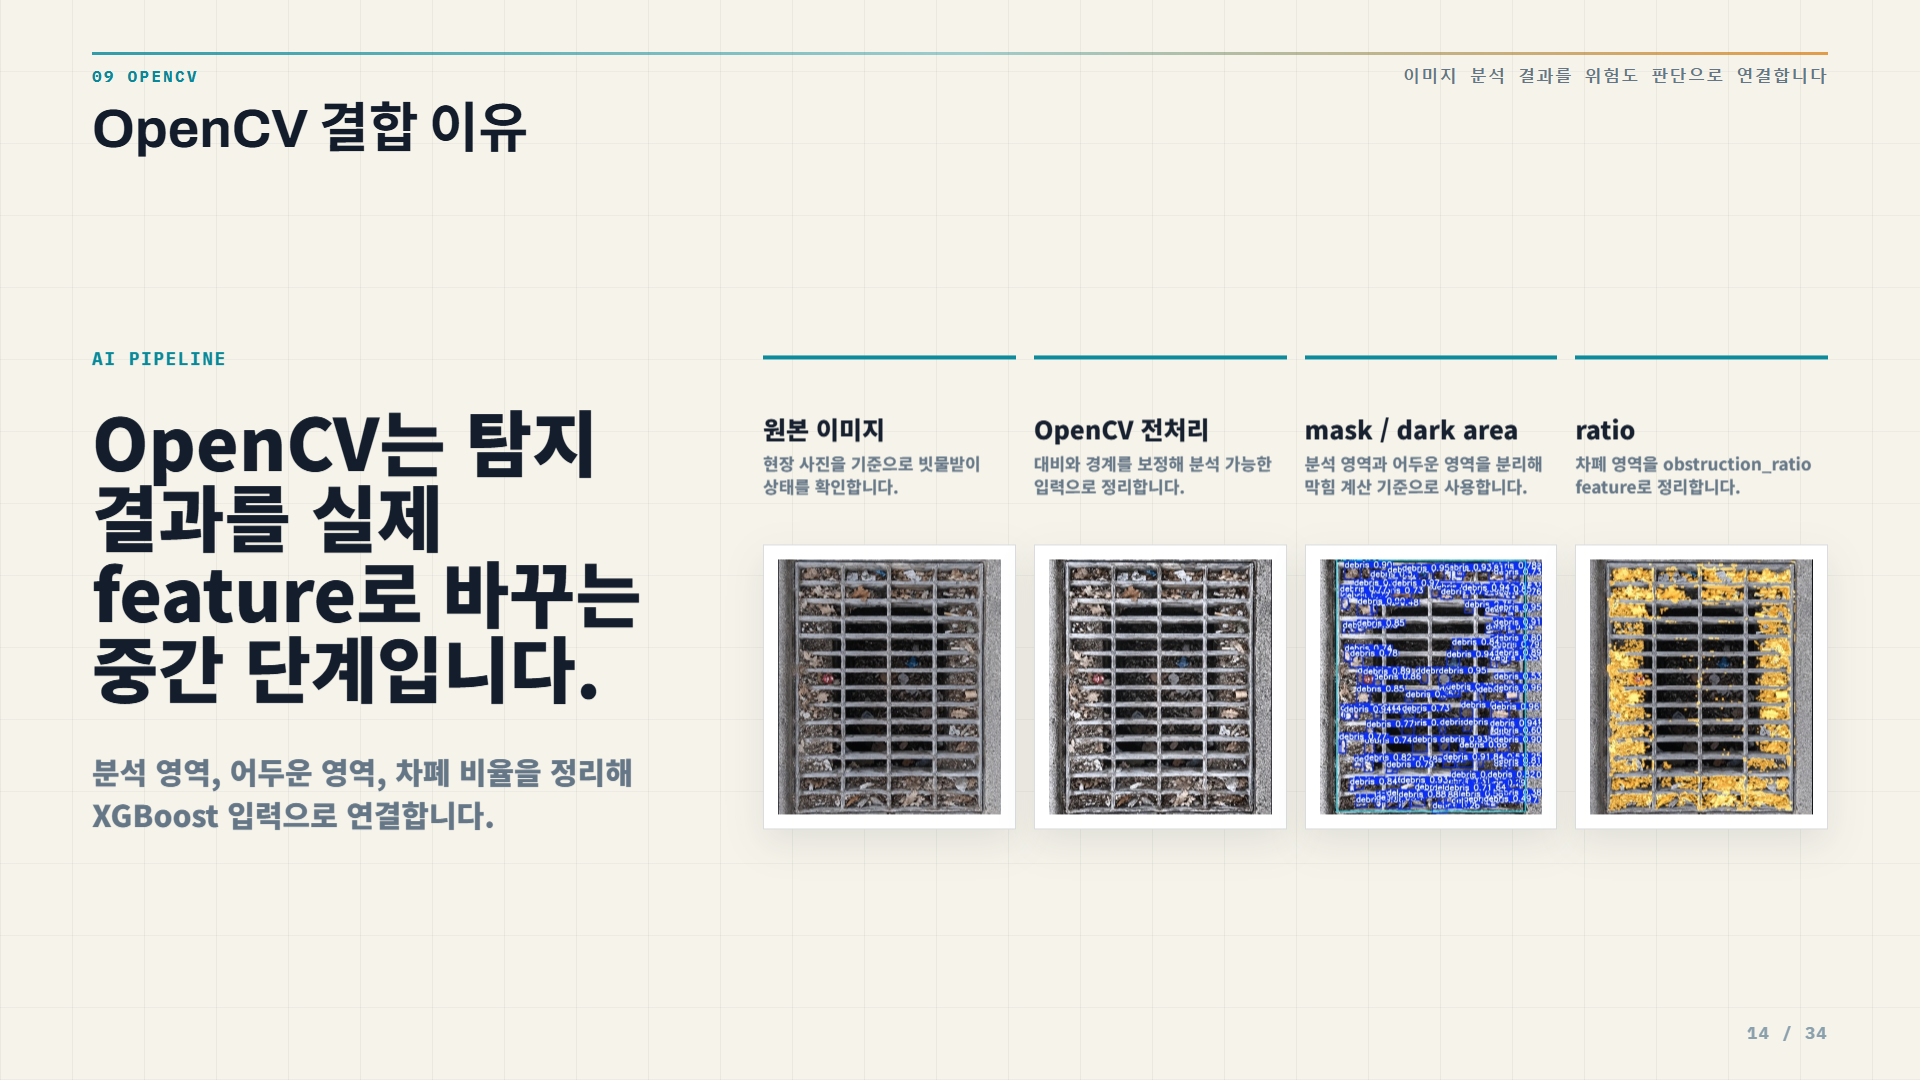
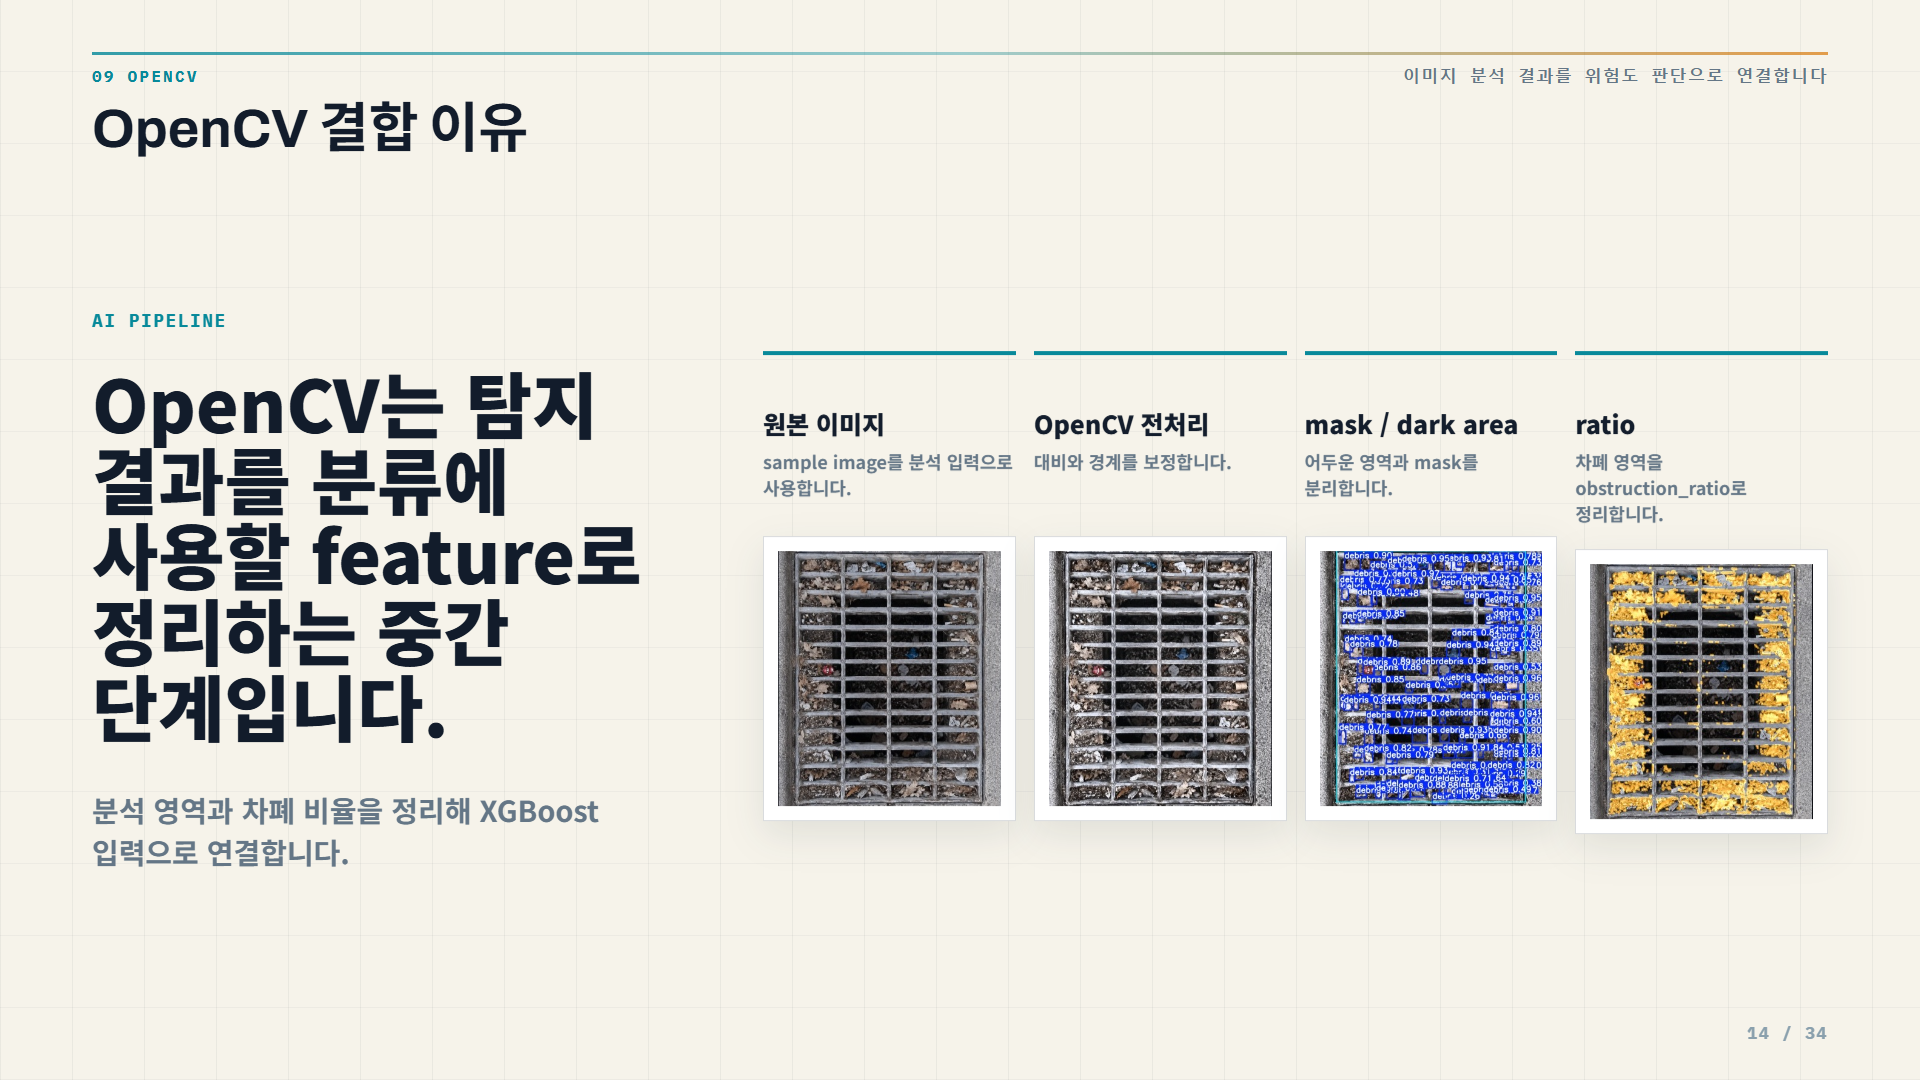
Improve AI section readability

Changed region(s): [[0.375, 0.3667, 0.9375, 0.7944], [0.0312, 0.275, 0.3438, 0.825], [0.4062, 0.3056, 0.9688, 0.3361]]

diff --git a/output/presentation.html b/output/presentation.html
@@ -1586,6 +1586,43 @@
       font-weight: 700;
       word-break: keep-all;
     }
+    .ai-tuned .ref-sub,
+    .ai-tuned li,
+    .ai-tuned .cell,
+    .ai-tuned .pipeline-copy p,
+    .ai-tuned .pipeline-step p,
+    .ai-tuned .stage-card span,
+    .ai-tuned .simple-step span {
+      font-weight: 600;
+    }
+    .ai-tuned .caption,
+    .ai-tuned .asset-caption {
+      font-size: 18px;
+      line-height: 1.45;
+      font-weight: 650;
+    }
+    .ai-tuned .pipeline-copy p {
+      font-size: 29px;
+      line-height: 1.45;
+    }
+    .ai-tuned .pipeline-step p {
+      font-size: 18px;
+      line-height: 1.46;
+      min-height: 66px;
+    }
+    .ai-tuned .stage-card {
+      min-height: 180px;
+      padding: 24px;
+    }
+    .ai-tuned .stage-card span,
+    .ai-tuned .simple-step span {
+      font-size: 20px;
+      line-height: 1.46;
+    }
+    .ai-tuned .row.four .cell {
+      padding: 18px 22px;
+      line-height: 1.38;
+    }
     .status-chip {
       display: inline-block;
       min-width: 86px;
@@ -2119,11 +2156,11 @@
         <p class="caption reveal" style="margin-top:32px">YOLO는 후보 영역을 찾고, OpenCV는 막힘 비율을 수치화하며, XGBoost는 이미지·센서 feature를 결합해 상태를 분류합니다.</p>
       </section>
 
-      <section class="slide" data-page="13 / 34">
+      <section class="slide ai-tuned" data-page="13 / 34">
         <div class="topline"><div><div class="kicker">08 AI 한계</div><h2>YOLO 단독 분석 한계</h2></div><div class="section-label">후처리 필요</div></div>
         <div class="hero-split">
           <div class="hero-copy reveal">
-            <p class="ref-claim">객체 탐지만으로는 배수 상태를 안정적으로 판단하기 어렵습니다.</p>
+            <p class="ref-claim">객체 탐지만으로는 배수 위험도를 안정적으로 판단하기 어렵습니다.</p>
             <p class="ref-sub">탐지 결과를 그대로 위험도로 쓰지 않고, OpenCV 후처리와 센서 feature를 결합해 상태 분류로 연결합니다.</p>
             <ul>
               <li>YOLO는 보이는 객체와 후보 영역 탐지에 강점이 있습니다.</li>
@@ -2134,94 +2171,94 @@
           <div class="hero-visual reveal">
             <div class="asset-frame hero">
               <img src="assets/yolo-opencv-error-graph.png" alt="YOLO 단독 해석 한계와 후처리 필요성 예시">
-              <div class="asset-caption">과정 예시: 원본 이미지 → 탐지/전처리 → mask/dark area → obstruction_ratio feature</div>
+              <div class="asset-caption">개념 예시: 객체 탐지만으로 상태 분류가 흔들릴 수 있어 OpenCV·센서 feature를 함께 사용합니다.</div>
             </div>
           </div>
         </div>
       </section>
 
-      <section class="slide" data-page="14 / 34">
+      <section class="slide ai-tuned" data-page="14 / 34">
         <div class="topline"><div><div class="kicker">09 OpenCV</div><h2>OpenCV 결합 이유</h2></div><div class="section-label">이미지 분석 결과를 위험도 판단으로 연결합니다</div></div>
         <div class="pipeline-layout">
           <div class="pipeline-copy reveal">
             <div class="eyebrow">AI Pipeline</div>
-            <h3>OpenCV는 탐지 결과를 실제 feature로 바꾸는 중간 단계입니다.</h3>
-            <p>분석 영역, 어두운 영역, 차폐 비율을 정리해 XGBoost 입력으로 연결합니다.</p>
+            <h3>OpenCV는 탐지 결과를 분류에 사용할 feature로 정리하는 중간 단계입니다.</h3>
+            <p>분석 영역과 차폐 비율을 정리해 XGBoost 입력으로 연결합니다.</p>
           </div>
           <div class="pipeline-steps reveal">
             <div class="pipeline-step">
               <h4>원본 이미지</h4>
-              <p>현장 사진을 기준으로 빗물받이 상태를 확인합니다.</p>
+              <p>sample image를 분석 입력으로 사용합니다.</p>
               <div class="pipeline-shot raw"><img src="assets/pipeline-drain-raw.jpg" alt="원본 이미지"></div>
             </div>
             <div class="pipeline-step">
               <h4>OpenCV 전처리</h4>
-              <p>대비와 경계를 보정해 분석 가능한 입력으로 정리합니다.</p>
+              <p>대비와 경계를 보정합니다.</p>
               <div class="pipeline-shot prep"><img src="assets/pipeline-drain-prep.jpg" alt="OpenCV 전처리"></div>
             </div>
             <div class="pipeline-step">
               <h4>mask / dark area</h4>
-              <p>분석 영역과 어두운 영역을 분리해 막힘 계산 기준으로 사용합니다.</p>
+              <p>어두운 영역과 mask를 분리합니다.</p>
               <div class="pipeline-shot yolo"><img src="assets/pipeline-drain-yolo.jpg" alt="mask와 dark area"></div>
             </div>
             <div class="pipeline-step">
               <h4>ratio</h4>
-              <p>차폐 영역을 obstruction_ratio feature로 정리합니다.</p>
+              <p>차폐 영역을 obstruction_ratio로 정리합니다.</p>
               <div class="pipeline-shot ratio"><img src="assets/pipeline-drain-ratio.jpg" alt="obstruction ratio"></div>
             </div>
           </div>
         </div>
       </section>
 
-      <section class="slide" data-page="15 / 34">
+      <section class="slide ai-tuned" data-page="15 / 34">
         <div class="topline"><div><div class="kicker">AI 설계</div><h2>XGBoost 입력 feature</h2></div><div class="section-label">feature 결합</div></div>
-        <p class="lead compact reveal">XGBoost에는 이미지 feature와 mock sensor data feature가 함께 들어가며, 근거가 부족하거나 품질이 낮으면 판단불가 또는 보수적 분류 후보가 됩니다.</p>
+        <p class="lead compact reveal">XGBoost에는 이미지 feature와 센서 feature가 함께 들어가며, 근거가 부족하면 판단불가 또는 보수적 분류 후보가 됩니다.</p>
         <div class="table reveal" style="margin-top:24px">
           <div class="row four head"><div class="cell">feature</div><div class="cell">출처</div><div class="cell">의미</div><div class="cell">결측 처리 기준</div></div>
-          <div class="row four"><div class="cell">obstruction_ratio</div><div class="cell">OpenCV 후처리</div><div class="cell">이미지 기반 막힘 정도</div><div class="cell">낮은 품질이면 판단불가 후보</div></div>
-          <div class="row four"><div class="cell">confidence_score</div><div class="cell">YOLO 결과</div><div class="cell">탐지 신뢰도</div><div class="cell">낮으면 이미지 근거 가중 제한</div></div>
-          <div class="row four"><div class="cell">water_level</div><div class="cell">mock sensor data</div><div class="cell">수위 상승 여부</div><div class="cell">없으면 센서 근거 부족으로 표시</div></div>
-          <div class="row four"><div class="cell">flow_velocity</div><div class="cell">mock sensor data</div><div class="cell">유속 저하 여부</div><div class="cell">없으면 이미지 근거 중심으로 제한</div></div>
+          <div class="row four"><div class="cell">obstruction_ratio</div><div class="cell">OpenCV 후처리</div><div class="cell">이미지 기반 막힘 정도</div><div class="cell">품질 낮으면 판단불가 후보</div></div>
+          <div class="row four"><div class="cell">confidence_score</div><div class="cell">YOLO 결과</div><div class="cell">탐지 신뢰도</div><div class="cell">낮으면 이미지 근거 제한</div></div>
+          <div class="row four"><div class="cell">water_level</div><div class="cell">mock sensor data</div><div class="cell">수위 변화</div><div class="cell">없으면 센서 근거 부족</div></div>
+          <div class="row four"><div class="cell">flow_velocity</div><div class="cell">mock sensor data</div><div class="cell">유속 변화</div><div class="cell">없으면 이미지 근거 중심</div></div>
         </div>
         <p class="trigger-note reveal" style="margin-top:22px">핵심은 이미지 근거와 센서 근거를 분리해 저장하고, 최종 분류에서는 함께 조합한다는 점입니다.</p>
-        <p class="caption reveal" style="margin-top:12px">sensor_data 원본 단위는 water_level_cm, flow_velocity_mps이며, AI service 내부에서 0~1 범위로 정규화해 사용합니다.</p>
+        <p class="caption reveal" style="margin-top:16px">sensor_data 원본 단위는 water_level_cm, flow_velocity_mps이며, AI service 내부에서 정규화해 사용합니다.</p>
       </section>
 
-      <section class="slide" data-page="16 / 34">
+      <section class="slide ai-tuned" data-page="16 / 34">
         <div class="topline"><div><div class="kicker">AI 결과</div><h2>위험도 분류 로직</h2></div><div class="section-label">내부 점수</div></div>
-        <p class="lead compact reveal">상태 분류는 점검 우선순위를 설명하기 위한 내부 계산 결과이며, 실제 물리적 침수 확률로 말하지 않습니다.</p>
+        <p class="lead compact reveal">상태 분류는 점검 우선순위를 설명하기 위한 내부 계산 결과이며, 실제 침수 확률을 직접 의미하지 않습니다.</p>
         <p class="caption reveal" style="margin-top:14px">아래 조건은 발표 설명용 대표 예시이며, 실제 결과는 이미지 feature와 센서 feature를 함께 반영한 최종 분류 결과입니다.</p>
         <div class="table reveal" style="margin-top:24px">
           <div class="row four head"><div class="cell">상태</div><div class="cell">판단 조건 예시</div><div class="cell">화면 처리</div><div class="cell">발표 표현</div></div>
-          <div class="row four"><div class="cell"><span class="status-chip good">양호</span></div><div class="cell">차폐율과 센서 정체 징후가 낮음</div><div class="cell">일반 상태로 표시</div><div class="cell">우선 확인 낮음</div></div>
+          <div class="row four"><div class="cell"><span class="status-chip good">양호</span></div><div class="cell">차폐율과 센서 정체 징후가 낮음</div><div class="cell">일반 상태로 표시</div><div class="cell">우선 점검 필요 낮음</div></div>
           <div class="row four"><div class="cell"><span class="status-chip warn">주의</span></div><div class="cell">막힘 또는 수위·유속 변화 징후가 있음</div><div class="cell">목록에서 점검 후보 표시</div><div class="cell">관찰 필요</div></div>
-          <div class="row four"><div class="cell"><span class="status-chip danger">위험</span></div><div class="cell">이미지와 센서 근거가 함께 강함</div><div class="cell">대시보드 우선 확인 대상으로 표시</div><div class="cell">우선 확인</div></div>
+          <div class="row four"><div class="cell"><span class="status-chip danger">위험</span></div><div class="cell">이미지와 센서 근거가 함께 강함</div><div class="cell">대시보드 우선 확인 대상으로 표시</div><div class="cell">우선 확인 필요</div></div>
           <div class="row four"><div class="cell"><span class="status-chip unknown">판단불가</span></div><div class="cell">이미지 품질 낮음, feature 결측, 분석 실패</div><div class="cell">재분석 또는 현장 확인 상태로 표시</div><div class="cell">재확인 필요</div></div>
         </div>
-        <p class="caption reveal" style="margin-top:18px">`risk_score`는 우수주의보 내부 분류용 계산 점수이며 실제 현장 검증 기반 침수 예측값이 아닙니다.</p>
+        <p class="caption reveal" style="margin-top:22px">`risk_score`는 우수주의보 내부 분류용 계산 점수이며 실제 현장 검증 기반 침수 예측값이 아닙니다.</p>
       </section>
 
-      <section class="slide" data-page="17 / 34">
+      <section class="slide ai-tuned" data-page="17 / 34">
         <div class="topline"><div><div class="kicker">AI 결과</div><h2>MVP 검증 범위</h2></div><div class="section-label">sample / mock</div></div>
-        <p class="message-line reveal">검증은 sample image와 mock sensor data 기반으로 입력, 중간 feature, 최종 분류가 연결되는지 확인하는 범위입니다.</p>
+        <p class="message-line reveal">검증 범위는 sample image와 mock sensor data를 입력으로 받아, 중간 feature와 최종 분류가 연결되는지 확인하는 수준입니다.</p>
         <div class="layout split-40 after-lead">
           <div class="asset-frame cover reveal">
             <img src="assets/drain-good.png" alt="양호 sample image">
             <div class="asset-caption">sample image: 상태 예시와 이미지 feature 설명에 사용하는 리소스</div>
           </div>
           <div class="stage-flow reveal" style="grid-template-columns: repeat(3, 1fr); margin-top:0">
-            <div class="stage-card"><b>01</b><strong>입력</strong><span>sample image와 mock sensor data를 하나의 분석 요청에 묶습니다.</span></div>
-            <div class="stage-card"><b>02</b><strong>중간 feature</strong><span>obstruction_ratio, confidence_score, water_level, flow_velocity를 확인합니다.</span></div>
-            <div class="stage-card"><b>03</b><strong>최종 분류</strong><span>risk_level과 risk_score를 저장 가능한 결과로 만듭니다.</span></div>
+            <div class="stage-card"><b>01</b><strong>입력</strong><span>sample image와 mock sensor data를 하나의 요청으로 묶어 분석을 시작합니다.</span></div>
+            <div class="stage-card"><b>02</b><strong>중간 feature</strong><span>obstruction_ratio, confidence_score, water_level, flow_velocity가 생성되는지 확인합니다.</span></div>
+            <div class="stage-card"><b>03</b><strong>최종 분류</strong><span>risk_level과 risk_score가 저장 가능한 결과로 남는지 확인합니다.</span></div>
           </div>
         </div>
-        <p class="caption reveal" style="margin-top:18px">한계: 실제 현장 검증 완료나 실제 침수 예측 성능을 주장하지 않습니다.</p>
+        <p class="caption reveal" style="margin-top:24px">한계: 실제 현장 검증 완료나 실제 침수 예측 성능을 주장하지 않습니다.</p>
       </section>
 
-      <section class="slide" data-page="18 / 34">
-        <div class="topline"><div><div class="kicker">서비스 구축</div><h2>서비스 구축 개요</h2></div><div class="section-label">AI 결과 활용</div></div>
-        <p class="ref-claim wide reveal">AI 분석 결과는 관리자 화면에서 시설 상태를 확인하고 점검 우선순위를 판단하는 흐름으로 연결됩니다.</p>
-        <div class="simple-steps reveal" style="grid-template-columns: repeat(4, 1fr)">
+      <section class="slide ai-tuned" data-page="18 / 34">
+        <div class="topline"><div><div class="kicker">서비스 구축</div><h2>AI 결과 활용 흐름</h2></div><div class="section-label">상태 반영</div></div>
+        <p class="ref-claim wide reveal" style="font-size:56px;line-height:1.08;max-width:1120px;margin:58px auto 0;text-align:center">AI 분석 결과는 관리자 화면에서 시설 상태와 점검 우선순위를 확인하는 흐름으로 연결됩니다.</p>
+        <div class="simple-steps reveal" style="grid-template-columns: repeat(4, 1fr); margin-top:30px">
           <div class="simple-step"><b>01</b><strong>대상 확인</strong><span>관리자가 대시보드에서 시설 목록과 상태를 확인합니다.</span></div>
           <div class="simple-step"><b>02</b><strong>분석 요청</strong><span>sample image와 mock sensor data를 분석 작업으로 묶습니다.</span></div>
           <div class="simple-step"><b>03</b><strong>결과 저장</strong><span>callback으로 받은 상태 분류 결과를 DB에 저장합니다.</span></div>
